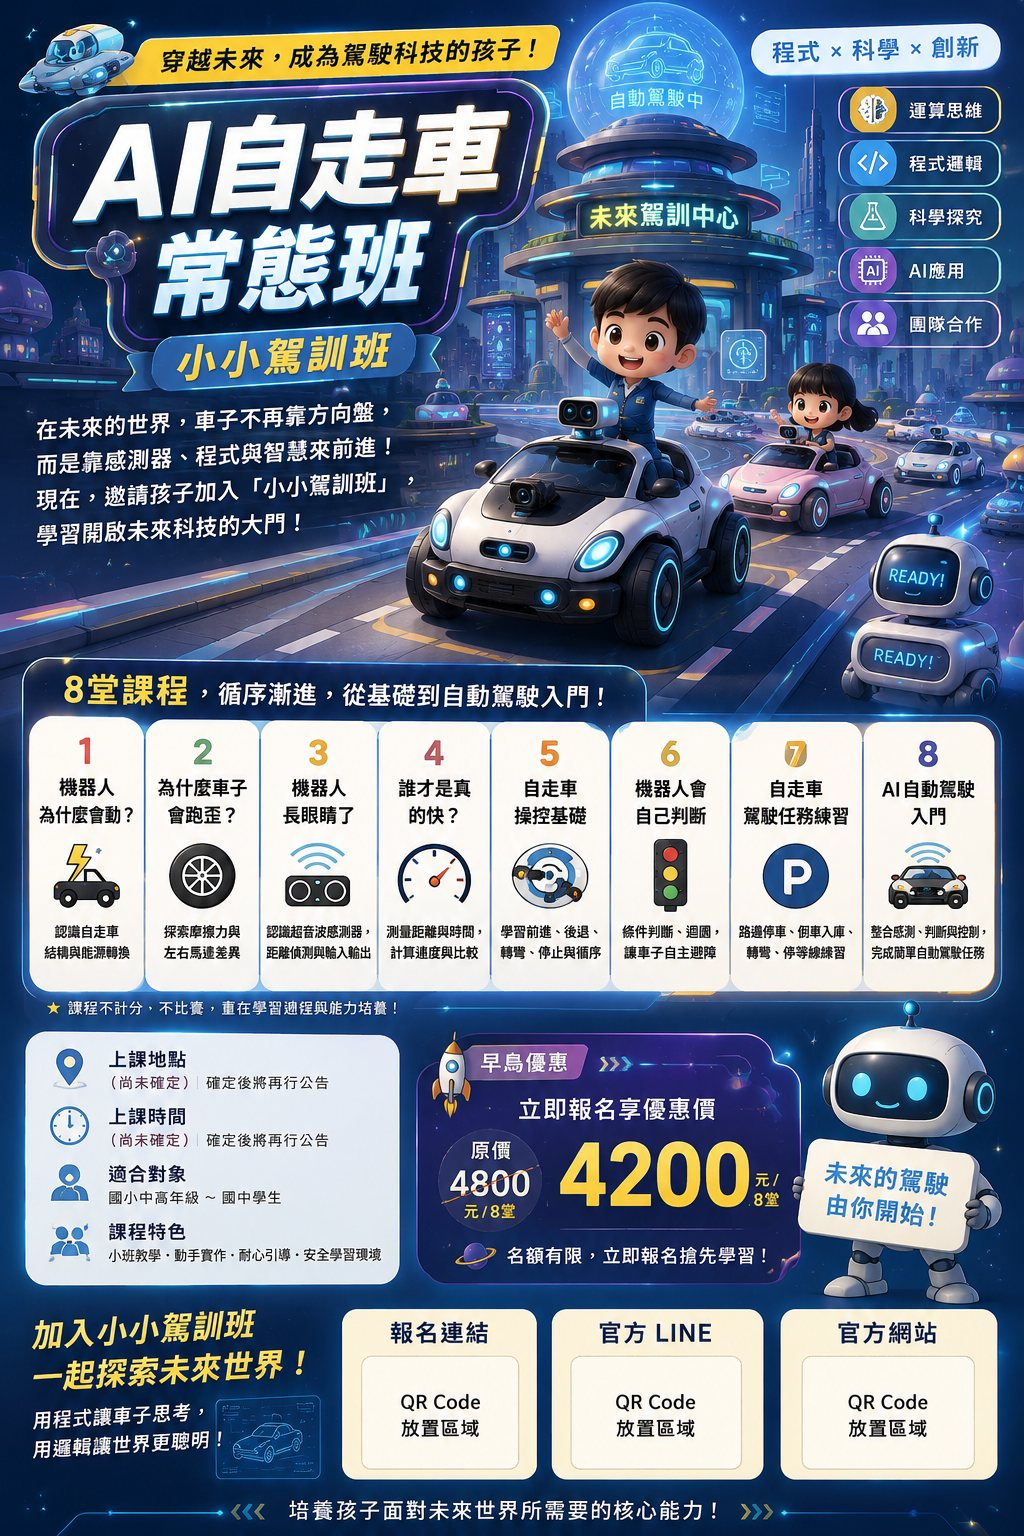
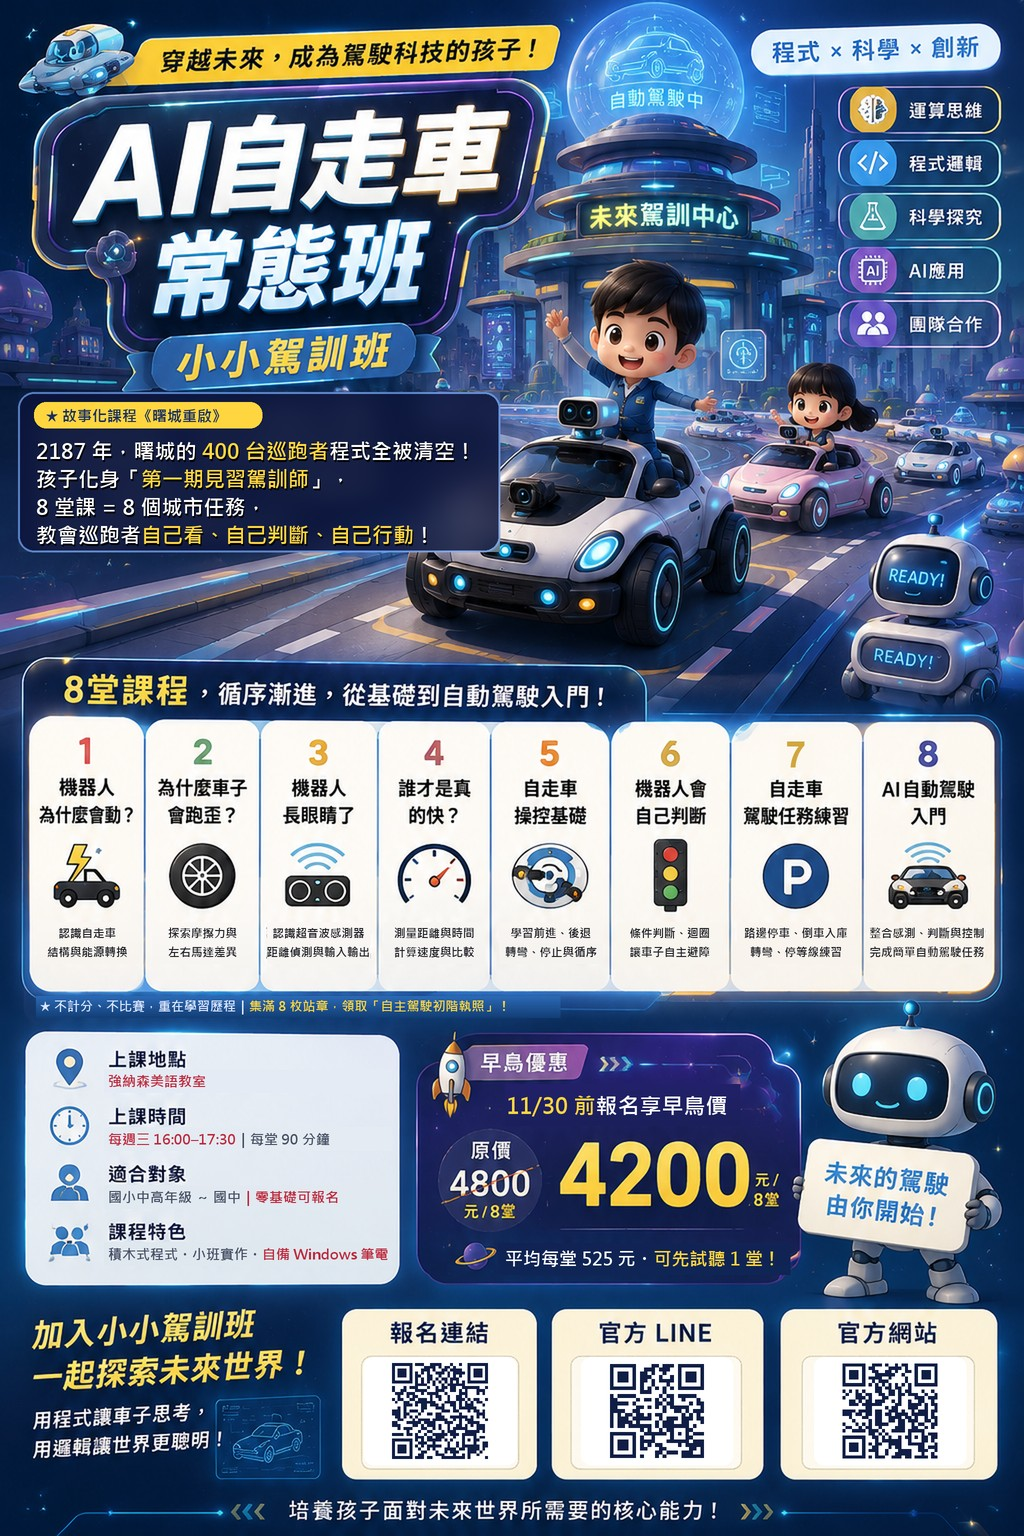
上課時間改為每週三 16:00–17:30、地點定案強納森美語教室，報名表接上試算表
- index.html／story.html：時間、地點、FAQ、頁尾、CONFIG.COURSE
- CONFIG.SHEET_WEBHOOK_URL 填入新的 Apps Script 部署網址
- img/flyer.jpg 換成 v4 傳單（QR Code、錯字修正、新時間地點）
- Code.gs：改用 setValues 寫入，避免電話開頭的 0 被吃掉

diff --git a/index.html b/index.html
@@ -4,7 +4,7 @@
 <meta charset="UTF-8">
 <meta name="viewport" content="width=device-width, initial-scale=1">
 <title>AI 自走車常態班｜小小駕訓班報名｜微研 Weiyan 科學教育</title>
-<meta name="description" content="微研 Weiyan 科學教育 AI 自走車常態班：每週三 17:00–18:30，一期 8 堂，積木式程式、零基礎可報名、可試聽 1 堂。11/30 前報名享早鳥價 NT$4,200。">
+<meta name="description" content="微研 Weiyan 科學教育 AI 自走車常態班：每週三 16:00–17:30（強納森美語教室），一期 8 堂，積木式程式、零基礎可報名、可試聽 1 堂。11/30 前報名享早鳥價 NT$4,200。">
 <meta property="og:title" content="AI 自走車常態班｜小小駕訓班 — 微研 Weiyan">
 <meta property="og:description" content="用程式讓車子思考！8 堂課從馬達、感測器到 AI 自動駕駛入門。11/30 前早鳥價 NT$4,200。">
 <meta property="og:image" content="https://weiyan-aicar-2026.pages.dev/img/flyer.jpg">
@@ -573,7 +573,7 @@ footer{border-top:1px solid var(--line);padding:56px 0 110px;color:var(--muted)}
       <div class="sub fade d1">🚗 小小駕訓班 <span class="en" id="scramble">AUTONOMOUS DRIVING 101</span></div>
       <p class="lead fade d2">在未來的世界，車子不再只靠方向盤，而是靠<b>感測器、程式與智慧</b>前進。8 堂課，從「我控制車」到「<b>車子依規則自己動</b>」！</p>
       <div class="chips fade d3">
-        <div class="chip"><i>📅</i>每週三 17:00–18:30</div>
+        <div class="chip"><i>📅</i>每週三 16:00–17:30</div>
         <div class="chip"><i>🧩</i>積木式程式</div>
         <div class="chip"><i>🌱</i>零基礎可報名</div>
         <div class="chip"><i>🎟</i>可試聽 1 堂</div>
@@ -763,9 +763,9 @@ footer{border-top:1px solid var(--line);padding:56px 0 110px;color:var(--muted)}
         <a href="#register" class="btn magnetic" style="margin-top:24px" data-late="立即報名 →">搶早鳥名額 →</a>
       </div>
       <div class="info" data-reveal>
-        <div class="irow"><i>📅</i><div><div class="k">上課時間</div><div class="v">每週三 17:00–18:30</div></div></div>
+        <div class="irow"><i>📅</i><div><div class="k">上課時間</div><div class="v">每週三 16:00–17:30</div></div></div>
         <div class="irow"><i>📚</i><div><div class="k">課程期程</div><div class="v">一期 8 堂・每堂 90 分鐘</div></div></div>
-        <div class="irow"><i>📍</i><div><div class="k">上課地點</div><div class="v">確定後公告<em>報名後通知</em></div></div></div>
+        <div class="irow"><i>📍</i><div><div class="k">上課地點</div><div class="v">強納森美語教室</div></div></div>
         <div class="irow"><i>👦</i><div><div class="k">適合對象</div><div class="v">國小中高年級 ～ 國中</div></div></div>
         <div class="irow"><i>💻</i><div><div class="k">設備需求</div><div class="v">自備 Windows 筆記型電腦</div></div></div>
         <div class="irow"><i>🧩</i><div><div class="k">程式平台</div><div class="v">積木式程式・零基礎可</div></div></div>
@@ -801,7 +801,7 @@ footer{border-top:1px solid var(--line);padding:56px 0 110px;color:var(--muted)}
       <details class="eb-only"><summary>早鳥優惠怎麼算？</summary><div class="ans">2026 年 11 月 30 日（含）前完成報名，8 堂只要 NT$4,200（原價 NT$4,800）。</div></details>
       <details><summary>怎麼付款？</summary><div class="ans">可選擇銀行轉帳或現場付款。送出報名後我們會以電話聯繫，確認上課與付款細節。</div></details>
       <details><summary>上課會比賽或排名嗎？</summary><div class="ans">常態班不計分、不排名、不比賽，重點是讓孩子會寫、會改、說得出為什麼。想挑戰比賽的孩子，完成常態班後可銜接進階比賽班。</div></details>
-      <details><summary>上課地點在哪裡？</summary><div class="ans">地點確定後會在本頁公告，並主動通知已報名的家長。</div></details>
+      <details><summary>上課地點在哪裡？</summary><div class="ans">在強納森美語教室上課。送出報名後我們會以電話聯繫家長，確認上課細節。</div></details>
     </div>
   </div>
 </section>
@@ -818,7 +818,7 @@ footer{border-top:1px solid var(--line);padding:56px 0 110px;color:var(--muted)}
         <div class="step"><b>1</b><span>填寫報名表<small>約 1 分鐘</small></span></div>
         <div class="step"><b>2</b><span>電話確認<small>我們會聯繫家長確認細節</small></span></div>
         <div class="step"><b>3</b><span>完成付款<small>銀行轉帳或現場付款</small></span></div>
-        <div class="step"><b>4</b><span>開始上課 🚗<small>每週三 17:00–18:30</small></span></div>
+        <div class="step"><b>4</b><span>開始上課 🚗<small>每週三 16:00–17:30・強納森美語教室</small></span></div>
       </div>
       <form id="regForm" novalidate data-reveal>
         <div class="fprog"><i id="fprog"></i></div>
@@ -888,7 +888,7 @@ footer{border-top:1px solid var(--line);padding:56px 0 110px;color:var(--muted)}
 <footer>
   <div class="wrap foot">
     <a href="#top" class="foot-logo"><img src="img/weiyan-logo-480.webp" alt="微研 WEIYAN 科學教育・探索未來"></a>
-    <div style="text-align:right">AI 自走車常態班｜小小駕訓班<br>每週三 17:00–18:30・一期 8 堂</div>
+    <div style="text-align:right">AI 自走車常態班｜小小駕訓班<br>每週三 16:00–17:30・強納森美語教室・一期 8 堂</div>
   </div>
   <div class="wrap"><small>課綱對應說明課程可對應之學習概念，不代表經教育主管機關認證。© 2026 微研 Weiyan 科學教育</small></div>
 </footer>
@@ -899,11 +899,11 @@ footer{border-top:1px solid var(--line);padding:56px 0 110px;color:var(--muted)}
 /* ================== 設定（部署前請確認） ================== */
 const CONFIG = {
   // 部署 Google Apps Script 後，把網址（https://script.google.com/macros/s/.../exec）貼在這裡
-  SHEET_WEBHOOK_URL: '',
+  SHEET_WEBHOOK_URL: 'https://script.google.com/macros/s/AKfycbyCRgZa4Y-xOubsALPxaxBpRmafcKeXH1bqiYE3RCJw38Xd4Ql18rJeZzRCV8y8uAc5/exec',
   EARLY_BIRD_DEADLINE: '2026-11-30T23:59:59+08:00',
   PRICE_ORIGINAL: 4800,
   PRICE_EARLY: 4200,
-  COURSE: 'AI 自走車常態班（每週三 17:00–18:30）'
+  COURSE: 'AI 自走車常態班（每週三 16:00–17:30・強納森美語教室）'
 };
 
 const $ = (s, el = document) => el.querySelector(s);

diff --git a/story.html b/story.html
@@ -678,7 +678,7 @@ footer{border-top:1px solid var(--line);padding:46px 0 60px;color:var(--muted);f
   <div class="wrap" data-reveal>
     <span class="en" style="color:var(--cyan);font-weight:700">JOIN THE ACADEMY</span>
     <h2>讓曙城<br><span class="grad-text">重新動起來</span></h2>
-    <p>每週三 17:00–18:30・一期 8 堂・積木式程式・零基礎可報名・可試聽 1 堂</p>
+    <p>每週三 16:00–17:30・強納森美語教室・一期 8 堂・積木式程式・零基礎可報名・可試聽 1 堂</p>
     <div class="cta-row" style="justify-content:center"><a href="index.html#register" class="btn">🚀 成為第一期見習駕訓師</a><a href="index.html" class="btn ghost">課程介紹</a></div>
   </div>
 </section>

diff --git a/README.md b/README.md
@@ -51,7 +51,7 @@
 
 ## 四、上線前還要補的資訊
 
-- **上課地點**：目前網站寫「確定後公告」（搜尋 `確定後公告`、`上課地點在哪裡` 修改）
+- ~~上課地點~~：已定案為「強納森美語教室」，上課時間每週三 16:00–17:30（2026-10-18 更新）
 - **聯絡方式**：官方 LINE／電話（頁尾目前沒有放）
 - **開班日期**、**每班人數上限**、**退費與補課規定**
 - **試聽費用**：目前寫「專人聯繫」
